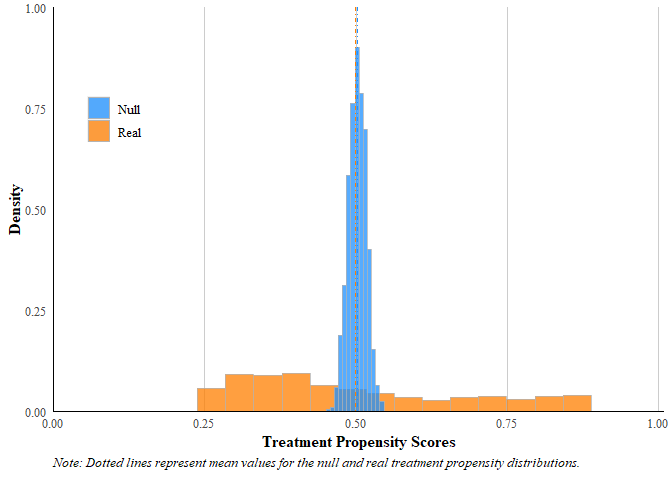
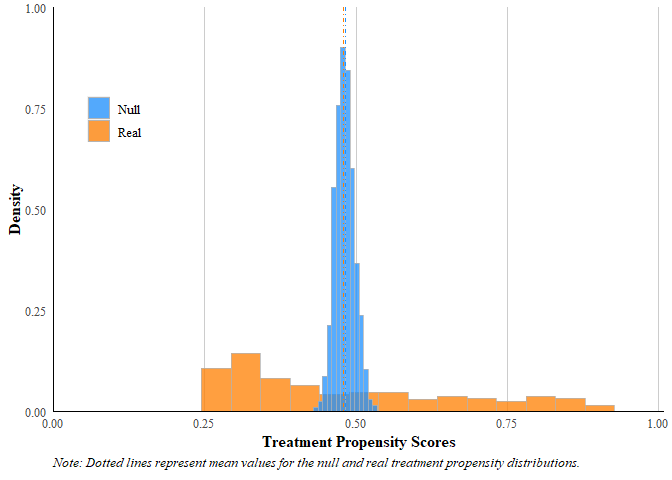
pkgdown

Changed region(s): [[0.2812, 0.0938, 0.9375, 0.875]]

diff --git a/README.md b/README.md
@@ -1,12 +1,6 @@
 
 # MLbalance (alpha version)
 
-<!-- badges: start -->
-
-![](use_lifecycle_badge(%22experimental%22))
-
-<!-- badges: end -->
-
 MLbalance implements a novel machine learning balance test, the balance
 permutation test, for experiments with binary, multiarm, and continuous
 treatments. The purpose of this test is to detect failures of random
@@ -47,6 +41,8 @@ treatment assignment.
 # install.packages("randomizr")
 library(MLbalance)
 #
+set.seed(1995)
+#
 # Simple simulation 
 n <- 1000
 p <- 20
@@ -69,16 +65,16 @@ r.check <- random_check(W_real = df$w_real, #real treatment assignment vector
 #> 
 #> W_real
 #>   0   1 
-#> 499 501 
+#> 520 480 
 #> W_sim
 #>   0   1 
-#> 499 501 
+#> 520 480 
 #> 
 #> 
 #> Result from difference in variances test (one-sided, greater F-test):
 #> 
 #>  Statistic p.val Result
-#>   153.9119     0   FAIL
+#>   139.8141     0   FAIL
 #> 
 #> 
 #> Check diff.var.result in saved output for detailed test result.
